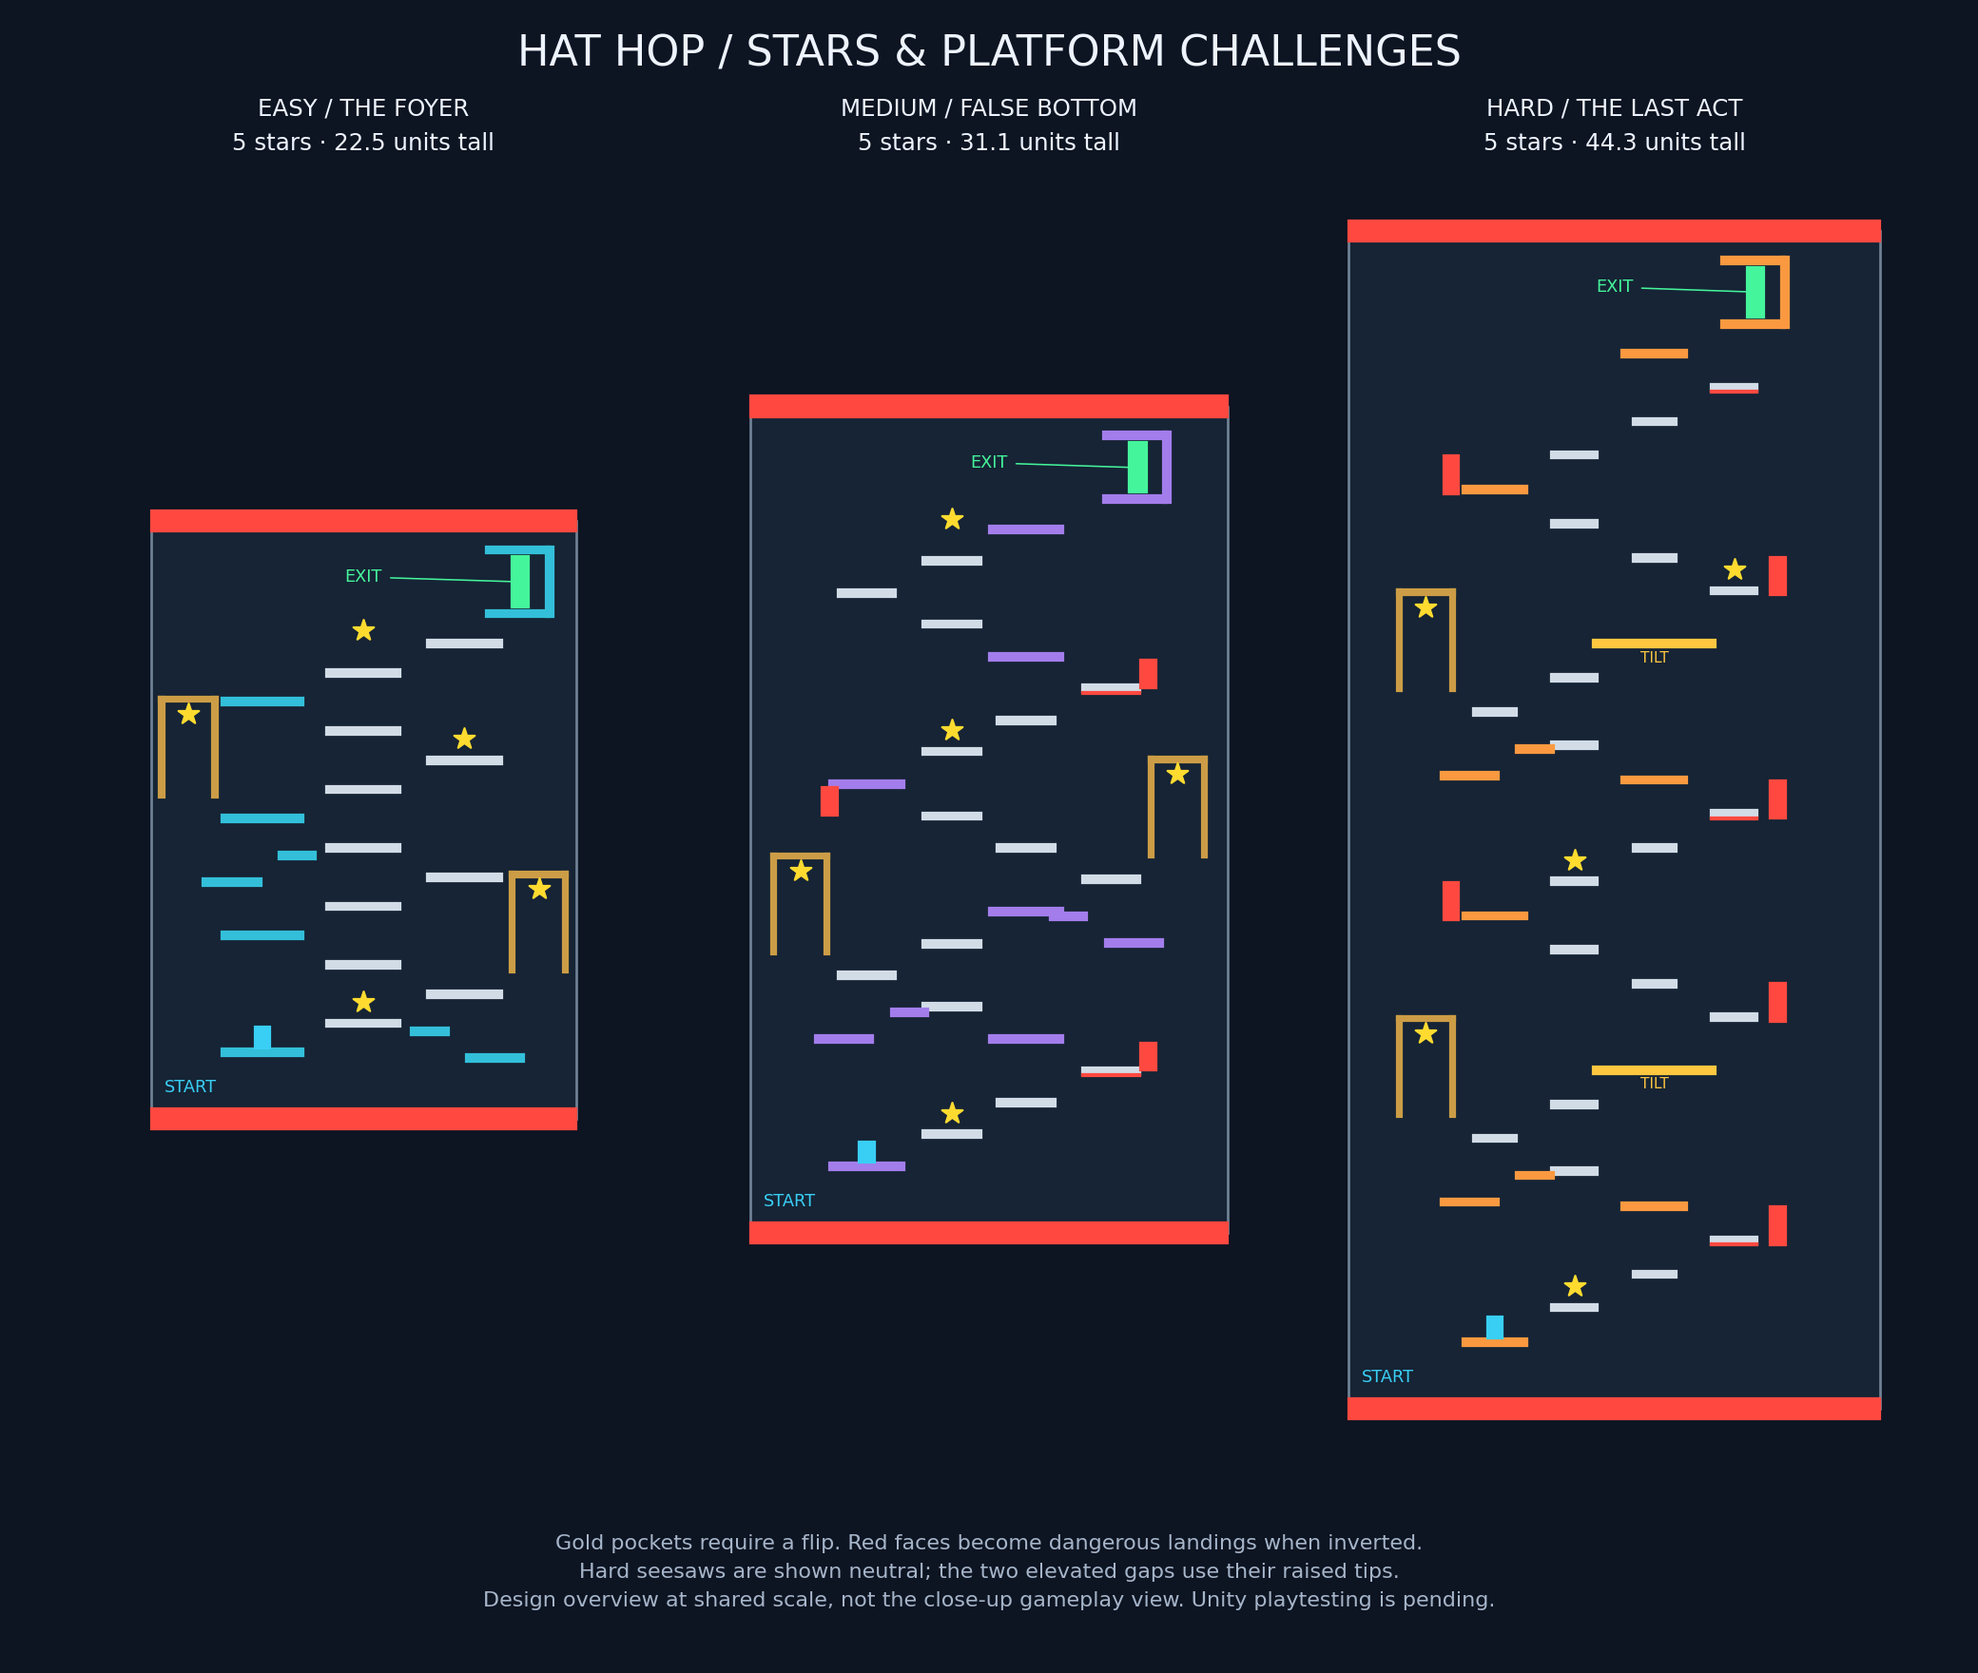
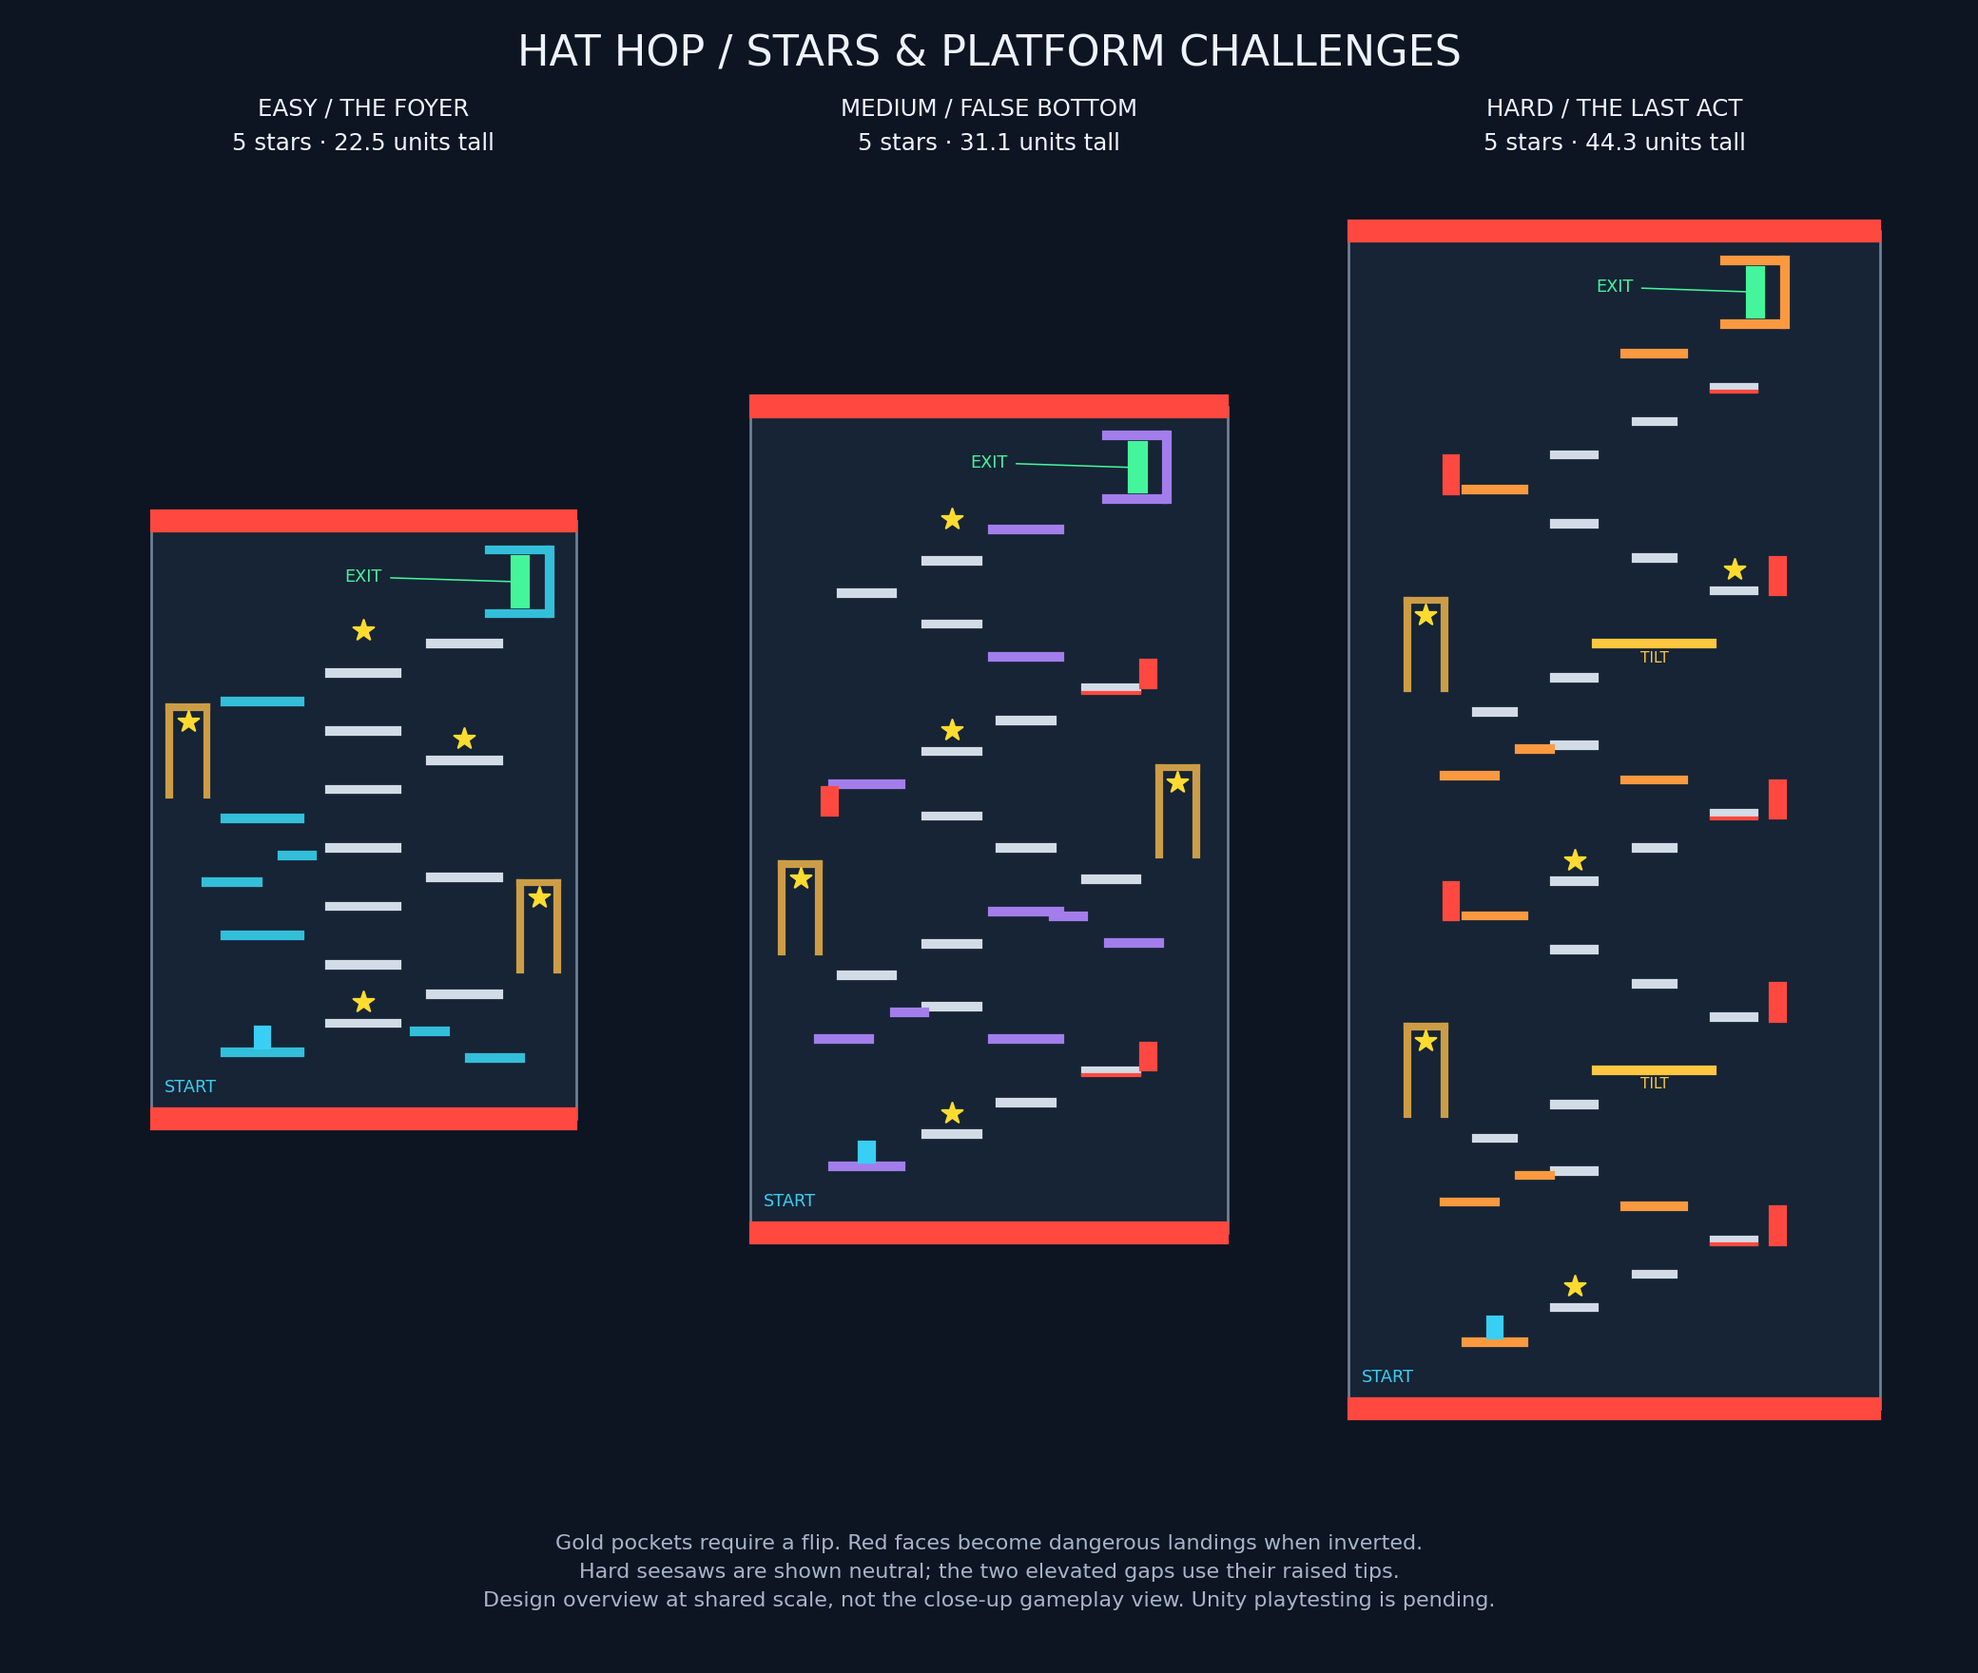
Shrink hollow pockets and halve level flip timings

diff --git a/Assets/HatHop/Editor/ThreeLevelSceneBuilder.cs b/Assets/HatHop/Editor/ThreeLevelSceneBuilder.cs
@@ -19,7 +19,7 @@ namespace HatHop.Editor
         {
             public string key, title;
             public int sections;
-            public float roomWidth, roomHeight, traversalSeconds, warningSeconds;
+            public float roomWidth, roomHeight, traversalSeconds, warningSeconds, turnSeconds;
             public float[] accent;
             public Box[] platforms, hazards, bonusPlatforms;
             public Pocket[] pockets;
@@ -110,7 +110,7 @@ namespace HatHop.Editor
                 if (l.key != Keys[i] || l.platforms == null || l.platforms.Length < 2 ||
                     l.hazards == null || l.bonusPlatforms == null || l.pockets == null || l.stars == null || l.stars.Length != 5 || l.accent == null || l.accent.Length != 3 ||
                     l.roomWidth <= 0 || l.roomHeight <= 0 || l.sections < 1 || l.exitWidth <= 0 || l.exitHeight < 2 ||
-                    l.traversalSeconds <= 0 || l.warningSeconds <= 0)
+                    l.traversalSeconds <= 0 || l.warningSeconds <= 0 || l.turnSeconds <= 0)
                     throw new InvalidDataException("Invalid layout: " + Keys[i]);
                 foreach (Box p in l.platforms)
                     if (p.width < 0.7f || p.height <= 0 || Mathf.Abs(p.x) + p.width / 2 >= l.roomWidth / 2)
@@ -218,6 +218,7 @@ namespace HatHop.Editor
             rotation.Configure(map, motor, true);
             SetFloat(rotation, "traversalSeconds", layout.traversalSeconds);
             SetFloat(rotation, "warningSeconds", layout.warningSeconds);
+            SetFloat(rotation, "turnSeconds", layout.turnSeconds);
             LevelFlow flow = systems.AddComponent<LevelFlow>();
             flow.Configure(rotation, motor, map);
             // Includes the full rotating room radius; the old fixed 25-unit guard is insufficient for larger maps.

diff --git a/Tools/validate_level_layouts.py b/Tools/validate_level_layouts.py
@@ -141,12 +141,16 @@ def check(l):
     assert len(l['stars'])==5 and len(l['pockets'])==2
     assert len({(star['x'],star['y']) for star in l['stars']})==5
     assert all(not (p.get('seesaw') and p.get('redUnderside')) for p in l['platforms'])
-    for q in l['pockets']:
+    assert all(l[key] > 0 for key in ('traversalSeconds', 'warningSeconds', 'turnSeconds'))
+    for i,q in enumerate(l['pockets'], 1):
         assert q['width']-.2 > 2*HALF_X+.4
         assert abs(q['x'])+q['width']/2+.1 < l['roomWidth']/2-.2
         assert abs(q['y']+q['height']) < l['roomHeight']/2-.4
         # Even a best-case launch with feet at the mouth cannot touch the star.
-        minimum_star_bottom=q['height']-.55-.55*.38
+        star=next(s for s in l['stars'] if s['name']==f'Flip Star {i}')
+        assert abs(star['x']-q['x'])+.55*.38 < q['width']/2-.1
+        assert star['y']+.55*.38 < q['y']+q['height']-.1
+        minimum_star_bottom=star['y']-q['y']-.55*.38
         assert minimum_star_bottom>JUMP*JUMP/(2*GRAVITY)+2*HALF_Y
     for sign,mode in [(1,'upright'),(-1,'flipped')]:
         ps,solids,hazards,f,r,caps=geometry(l,sign)

diff --git a/Docs/STARS_AND_PLATFORM_CHALLENGES.md b/Docs/STARS_AND_PLATFORM_CHALLENGES.md
@@ -15,14 +15,14 @@ Existing A/D movement, jump speed, coyote/buffer settings, 0.4 visual hop height
 
 ## Why the pocket stars require a flip
 
-Each golden pocket is 3.6 units deep, closed at the top and sides, with its mouth at the bottom in the original orientation. The star sits near the closed cap. Its pickup zone is higher than the player's maximum reach from the mouth, even allowing the full collision-body height. There is no orientation-lock flag: the geometry is what prevents collection before a flip.
+Each golden pocket is 1.4 units wide and 3.3 units deep (previously 2.0 by 3.6), closed at the top and sides, with its mouth at the bottom in the original orientation. The star sits near the closed cap. Its pickup zone is higher than the player's maximum reach from the mouth, even allowing the full collision-body height. There is no orientation-lock flag: the geometry is what prevents collection before a flip.
 
 Once inverted, the mouth faces upward and the player can descend into the pocket. The pocket may hold the player until the next scheduled flip. These are optional star detours; the timer remains visible. After flipping back, steer toward the center of the map on the way out, using the colored recovery shelf and return step below the mouth. Missing a star does not permanently remove it; later flips provide another chance, subject to surviving and navigating back.
 
 ## Install and generate
 
 1. Stop Play Mode and save your scenes. Commit the current tested checkpoint before regenerating layouts. Use a feature branch such as `feature/stars-platforms` from that checkpoint.
-2. Extract **Hat_Hop_Stars_And_Platform_Challenges.zip**. Merge **Assets**, **Docs**, **Tools** and **README.md** into the project root, replacing the included files. This includes the earlier menu/level source, so use only this ZIP. It does not replace .git, Packages or ProjectSettings directly.
+2. Extract **Hat_Hop_Compact_Pockets_Faster_Flips.zip**. Merge **Assets**, **Docs**, **Tools** and **README.md** into the project root, replacing the included files. This includes the earlier menu/level source, so use only this ZIP. It does not replace .git, Packages or ProjectSettings directly.
 3. Let Unity finish compiling. If red errors appear, copy the first full error before running setup.
 4. Select **Hat Hop > Create Stars and Platform Challenge Levels**. The older Create Menu and Three Levels command is an alias for the same updated generator. Accept the replacement dialog only after saving the previous checkpoint: it regenerates MainMenu, Easy, Medium and Hard, resets their layout edits, refreshes their catalog mapping and generated icons. Older test scenes are preserved, though shared lifecycle/HUD scripts are updated.
 5. Check the active Build Profile includes enabled MainMenu first, followed by Easy, Medium and Hard. A profile with Override Global Scene List needs its own matching entries. Press Play from MainMenu.
@@ -31,11 +31,13 @@ The new components and Inspector references are added automatically. Do not manu
 
 ## Level contents
 
-| Level | Flip-only stars | Red undersides | Seesaws | Traversal / warning |
+| Level | Flip-only stars | Red undersides | Seesaws | Traversal / warning / turn |
 | --- | --- | --- | --- | --- |
-| Easy | Two pockets | None | None | 10 s / 2 s |
-| Medium | Two pockets | Landings 03 and 15 | None | 8 s / 2 s |
-| Hard | Two pockets | Landings 03, 15 and 27 | Landings 08 and 20 | 6 s / 2 s |
+| Easy | Two pockets | None | None | 5 s / 1 s / 0.3 s |
+| Medium | Two pockets | Landings 03 and 15 | None | 4 s / 1 s / 0.3 s |
+| Hard | Two pockets | Landings 03, 15 and 27 | Landings 08 and 20 | 3 s / 1 s / 0.3 s |
+
+Traversal, warning and turn animation durations are all half the previous values. From the start of traversal, a flip starts after 6 / 5 / 4 seconds in Easy / Medium / Hard. A full cycle also includes the 0.3-second turn and a physics contact-refresh step. The shorter warning still permits movement. Old test scenes retain their existing timing.
 
 Hard is now 44.34 units high because its two elevated transitions were raised. Easy and Medium remain 22.52 and 31.12 units high. Each level still has five stars total. Some older red edge blocks were removed around pocket approaches so they do not obstruct the new detours. See Three_Levels_Overview.png for the updated design diagram, not a Unity screenshot.
 
@@ -62,7 +64,8 @@ Hard is now 44.34 units high because its two elevated transitions were raised. E
 
 - In the original orientation, try to reach each deep pocket star from below; normal jumping must not reach it.
 - After a flip, enter from above and collect it. After the next flip, exit toward the center and use the recovery ledges to rejoin.
-- Verify both pocket detours remain doable during actual scheduled flips, not just when the world is stationary.
+- Check the new 1-second warning and 0.3-second turn feel readable, particularly when preparing a Hard seesaw jump.
+- Verify both smaller pocket detours remain doable during actual scheduled flips, not just when the world is stationary.
 - Stand on a marked platform's safe top; then test its red underside and the flipped red top. Only the marked face and existing red hazards are lethal.
 - Before flipping near a red platform, identify a reachable safe landing. Report any unavoidable death sequence for route/timing adjustment.
 
@@ -103,7 +106,7 @@ Stop Play Mode and save, then:
 git add Assets/HatHop Docs Tools README.md ProjectSettings/EditorBuildSettings.asset
 git --no-pager diff --cached --stat
 git diff --cached --check
-git commit -m "Add star ratings, exit guidance and platform challenges"
+git commit -m "Shrink hollow pockets and halve level flip timings"
 git push -u origin HEAD
 git status
 ```

diff --git a/Docs/Hat_Hop_Development_Guide.md b/Docs/Hat_Hop_Development_Guide.md
@@ -91,11 +91,11 @@ The first larger layouts are authored in Assets/HatHop/Editor/LevelData/ThreeLev
 
 | Level | Room size / route landings | Learning or challenge |
 | --- | --- | --- |
-| Easy: The Foyer | 16 x 22.52 / 15 | Three sections, broad landings, no interior hazards, 10-second traversal before warning. |
-| Medium: False Bottom | 18 x 31.12 / 21 | Five sections, longer sweeps, red undersides and flip-star pockets, 8-second traversal. |
-| Hard: The Last Act | 20 x 44.34 / 29 | Seven sections, precision platforms, red undersides, flip-star pockets and two seesaw jumps, 6-second traversal. |
+| Easy: The Foyer | 16 x 22.52 / 15 | Three sections, broad landings, no interior hazards, 5-second traversal before warning. |
+| Medium: False Bottom | 18 x 31.12 / 21 | Five sections, longer sweeps, red undersides and flip-star pockets, 4-second traversal. |
+| Hard: The Last Act | 20 x 44.34 / 29 | Seven sections, precision platforms, red undersides, flip-star pockets and two seesaw jumps, 3-second traversal. |
 
-Warnings stay at two seconds and turns at 0.6 seconds. All layouts use the same motor, 0.4 visual hop height and camera size 5. The level boundary-distance guard scales with the room radius instead of the old fixed 25 units. The generator creates a separate material and sprite and preserves older test scenes.
+Generated levels now use one-second warnings and 0.3-second turns; all three flip phases were halved for quicker decisions. Gold pockets are narrower (1.4 units) and shallower (3.3 units), with stars repositioned to preserve flip-only collection. All layouts use the same motor, 0.4 visual hop height and camera size 5. The level boundary-distance guard scales with the room radius instead of the old fixed 25 units. The generator creates a separate material and sprite and preserves older test scenes.
 
 Side-alcove exits have solid roofs/floors/back walls to block direct vertical wins in both orientations. Descending into an inverted exit requires going around its open side. Static sampled trajectory checks cover adjacent platforms and both exit approaches; they do not establish that live flips or final difficulty are fair. Playtest each layout in Unity and tune from actual results. Keep both orientations traversable and avoid offscreen lethal surprises.
 

diff --git a/README.md b/README.md
@@ -20,9 +20,10 @@ The visible rabbit placeholder makes small cosmetic hops; the collision body sta
 
 The user has tested the revised movement and camera and chosen a scene visual hop height of **0.4**.
 
-The **stars and platform challenges revision** is authored and awaiting Unity validation. Follow [setup and playtests](Docs/STARS_AND_PLATFORM_CHALLENGES.md): import Hat_Hop_Stars_And_Platform_Challenges.zip, then run **Hat Hop > Create Stars and Platform Challenge Levels**. This includes menu and all three levels; no earlier ZIP is needed.
+The **stars and platform challenges revision** is authored and awaiting Unity validation. Follow [setup and playtests](Docs/STARS_AND_PLATFORM_CHALLENGES.md): import Hat_Hop_Compact_Pockets_Faster_Flips.zip, then run **Hat Hop > Create Stars and Platform Challenge Levels**. This includes menu and all three levels; no earlier ZIP is needed.
 
-- Five stars per level, including two deep pockets that require a world flip to enter.
+- Five stars per level, including two compact pockets (1.4 wide, 3.3 deep) whose stars require a world flip.
+- Faster flips: Easy/Medium/Hard traversal is 5/4/3 seconds, followed by a 1-second warning and a 0.3-second turn.
 - A 0-5 star completion result and best completed score in the HUD and Level Select. Death/restart resets the current attempt's collectibles.
 - Floating exit direction marker on the right while the goal is offscreen.
 - Medium and Hard introduce red undersides; Hard adds two delayed seesaws and elevated jumps that require a raised tip when upright.

diff --git a/Docs/PROGRESS.md b/Docs/PROGRESS.md
@@ -15,6 +15,8 @@ Updated September 25, 2026. Gameplay results below are user reports from the Win
 
 User authorized five-star collection, required flips for some stars, Hard seesaws used as raised jump launch points, red undersides, and a mandatory right-side goal indicator. Source is authored locally on feature/stars-platforms; the user has not yet reported tests of this revision.
 
+Latest requested tuning: hollow pockets reduced from 2.0 x 3.6 to 1.4 x 3.3, with relocated pocket stars. All flip phases halved: traversal 5/4/3 seconds, warning 1 second, turn 0.3 seconds. Requires regenerating the menu/three levels; faster live timing and smaller openings need user playtesting.
+
 Included: four new runtime components (StarCollectible, LevelStars, ExitIndicator, SeesawPlatform); generated star/arrow art; a lifecycle reset event; deferred scoring integrated with death/goal priority; result icons, best-score menu labels and updated level layouts. The combined generator includes menu and all three levels.
 
 Geometry checks passed for upright and flipped routes, red-face detours, gold-pocket entry, escape/recovery paths and the two raised-tip jumps. Neutral jumps fail those elevated transitions. The validator now models oriented rectangles and ceiling stops. It is an approximate static motion check, not Unity or execution of the C# mechanics.
